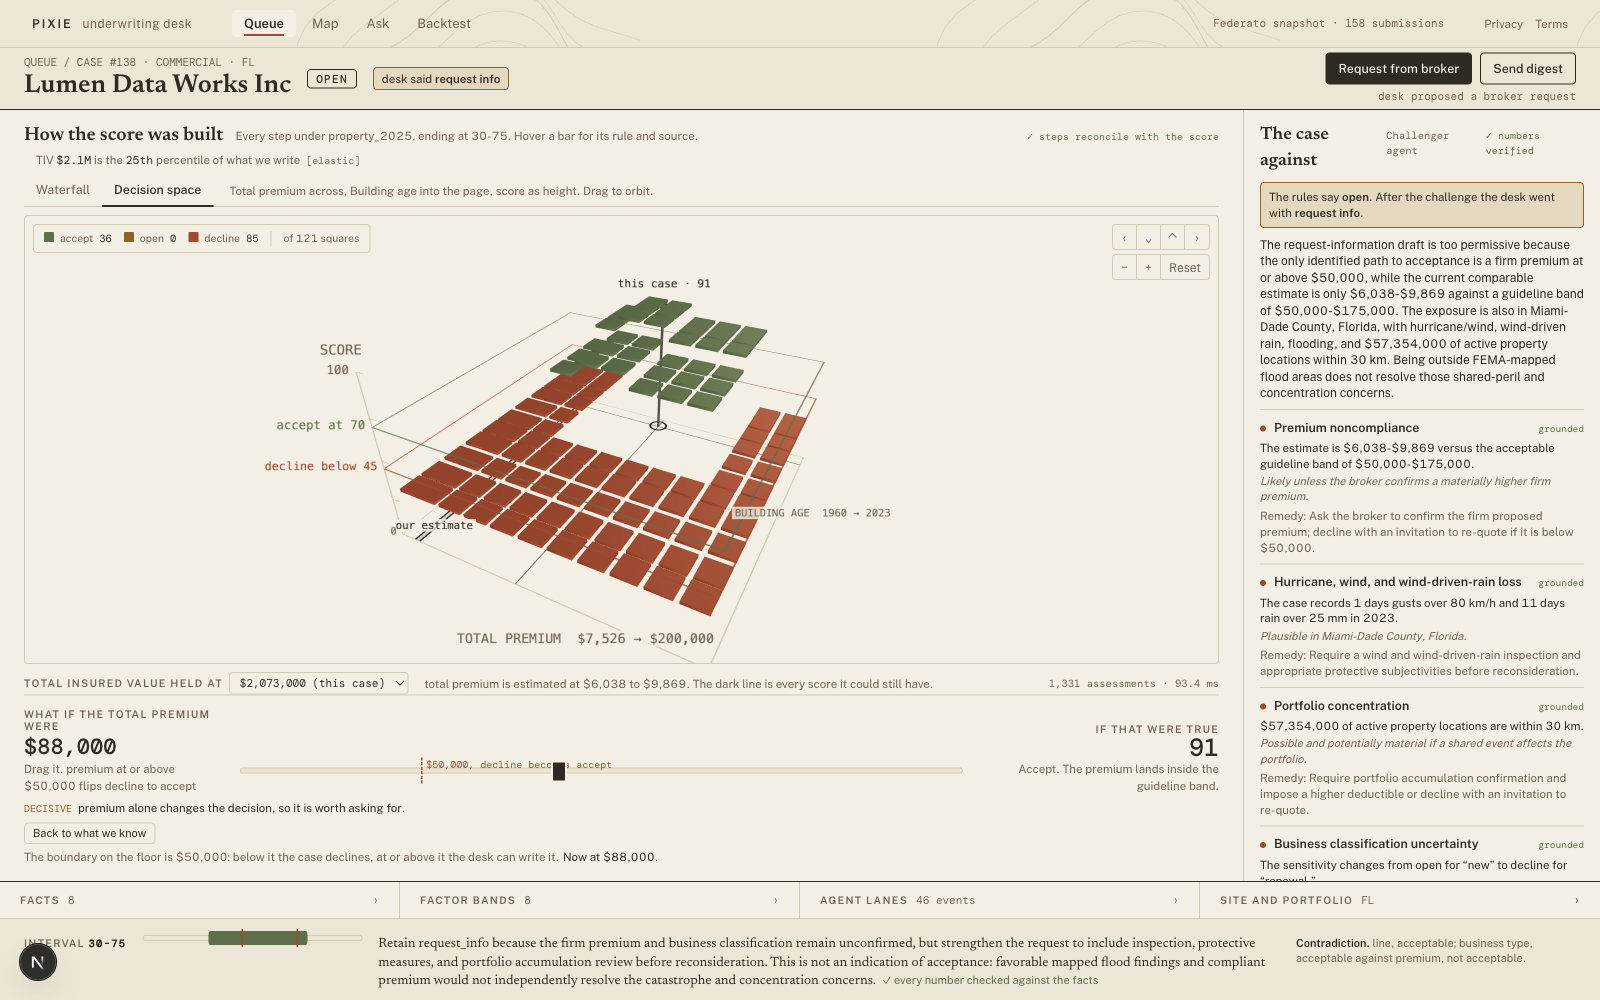
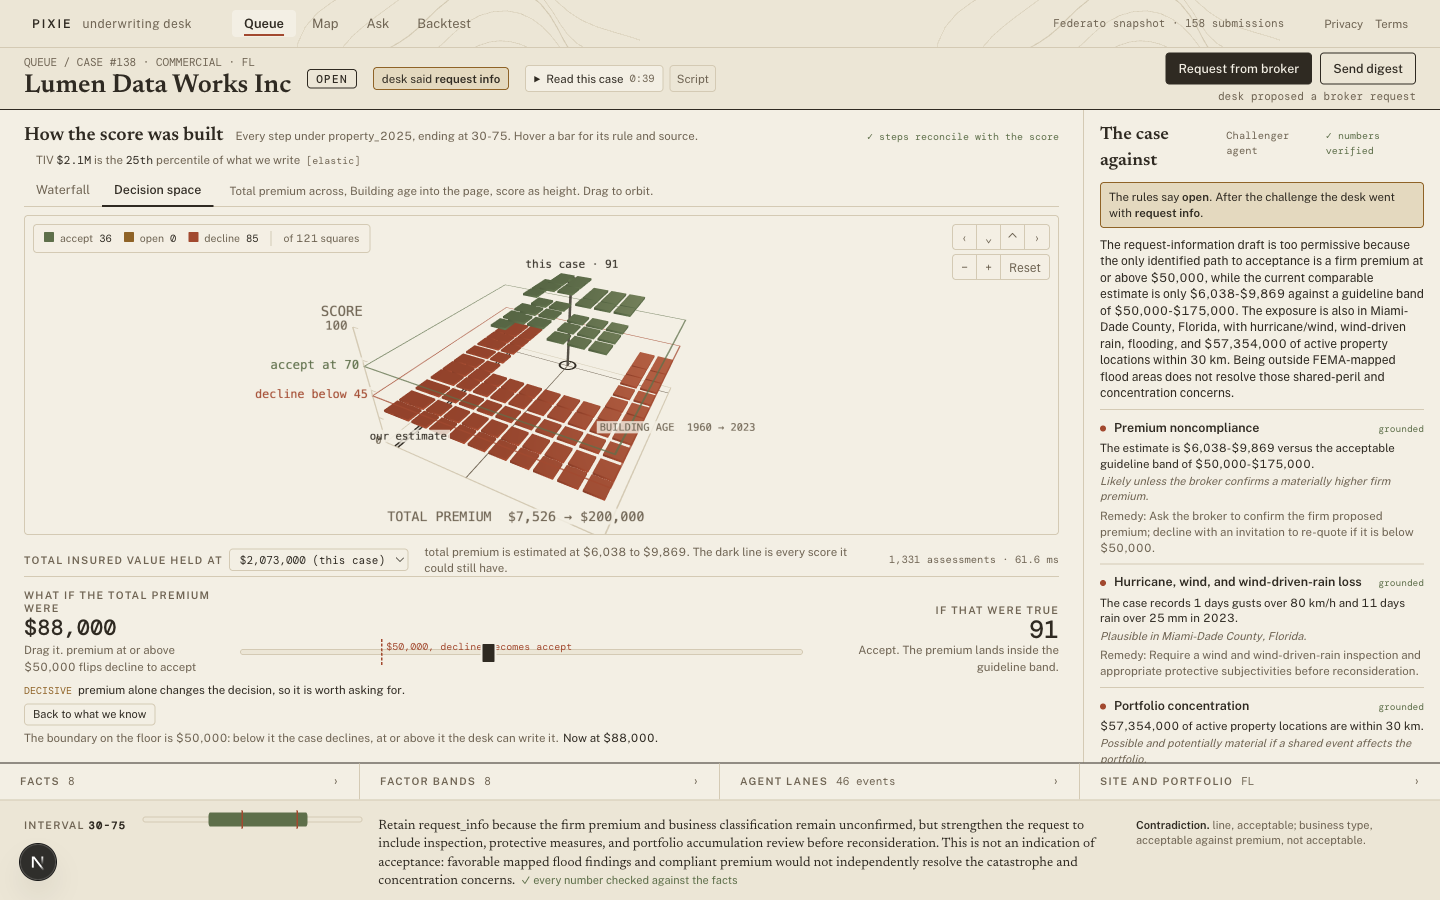
A2b: lint fixes, refs are assigned in an effect and buildLayers drops two dead parameters

diff --git a/web/src/components/case/DecisionSpace.tsx b/web/src/components/case/DecisionSpace.tsx
@@ -79,7 +79,7 @@ export default function DecisionSpace({ s, pin }: { s: Surface; pin: Pin }) {
   }, [cells]);
 
   const layers = useMemo(
-    () => buildLayers({ s, cells, ax, ay, caseT, caseScore, caseTier, slider, slice }),
+    () => buildLayers({ s, cells, ax, ay, caseT, caseScore, caseTier }),
     [s, cells, caseT[0], caseT[1], caseScore.lo, caseScore.hi, caseTier, slider, slice], // eslint-disable-line react-hooks/exhaustive-deps
   );
 
@@ -265,8 +265,6 @@ function buildLayers({
   caseT,
   caseScore,
   caseTier,
-  slider,
-  slice,
 }: {
   s: Surface;
   cells: { p: [number, number, number]; h: number; c: [number, number, number, number]; tier: Tier; lo: number; hi: number; i: number; j: number }[];
@@ -275,8 +273,6 @@ function buildLayers({
   caseT: [number, number];
   caseScore: { lo: number; hi: number };
   caseTier: Tier;
-  slider: number;
-  slice: number;
 }): Layer[] {
   const cx = px(caseT[0]);
   const cy = px(caseT[1]);

diff --git a/web/src/components/case/WhatIf.tsx b/web/src/components/case/WhatIf.tsx
@@ -35,7 +35,9 @@ export function WhatIf({
   const [res, setRes] = useState<WhatIfResult | null>(null);
   const seq = useRef(0);
   const emit = useRef(onState);
-  emit.current = onState;
+  useEffect(() => {
+    emit.current = onState;
+  }, [onState]);
 
   // The API answers in well under a millisecond, so ask on every drag frame and keep the last answer.
   useEffect(() => {
